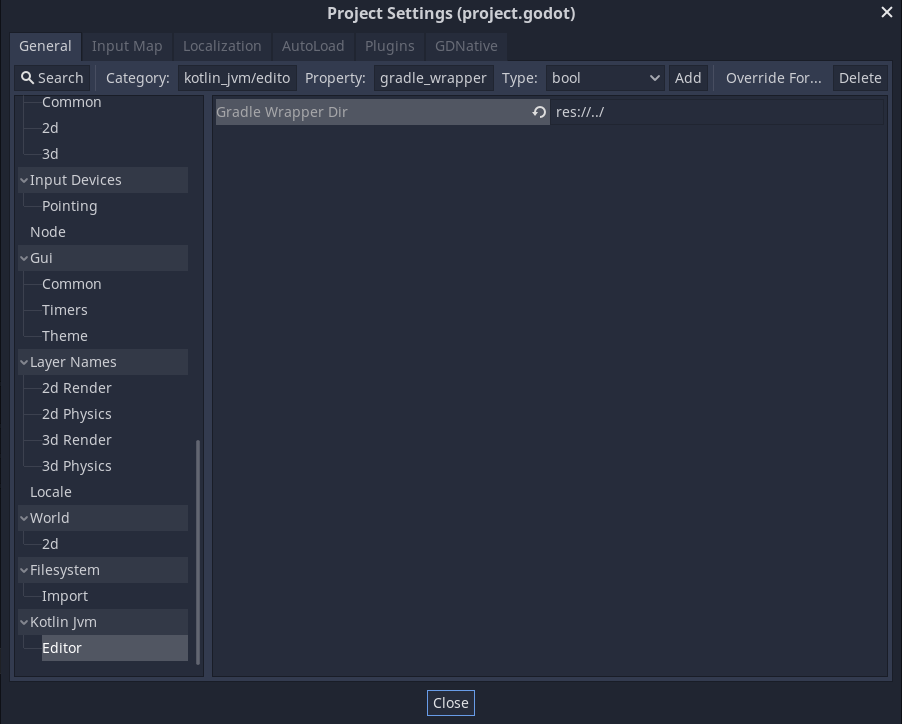
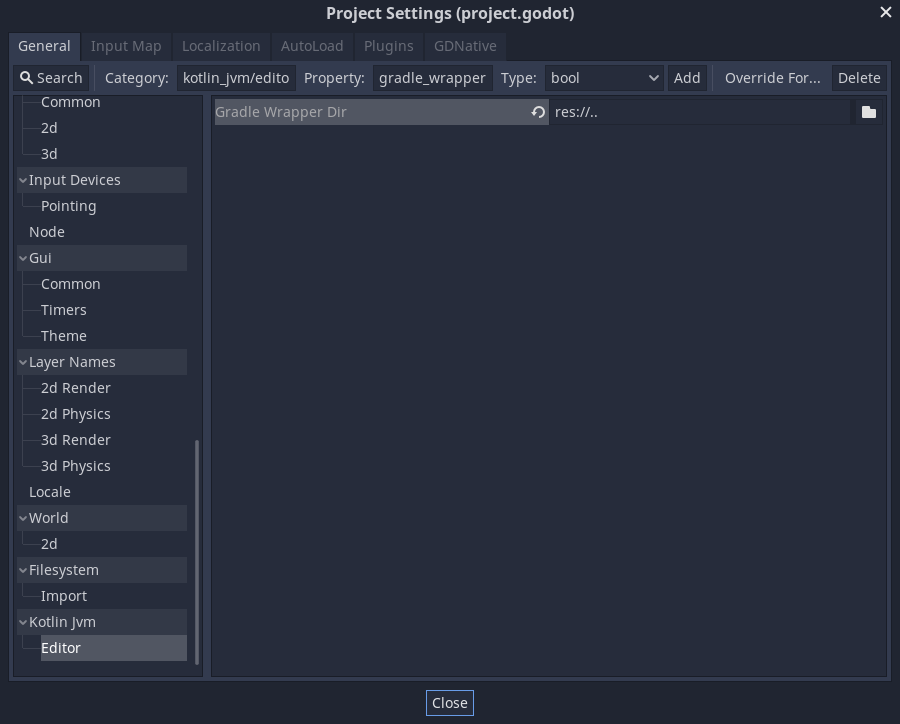
Add possibility to set patch through file dialog

diff --git a/src/editor/build/build_manager.cpp b/src/editor/build/build_manager.cpp
@@ -100,12 +100,16 @@ Error BuildManager::build_blocking() {
 #endif
 
     String gradle_wrapper_path{
-            ProjectSettings::get_singleton()->get_setting("kotlin_jvm/editor/gradle_wrapper_dir")
+            ProjectSettings::get_singleton()->globalize_path(
+                    ProjectSettings::get_singleton()->get_setting("kotlin_jvm/editor/gradle_wrapper_dir")
+            )
     };
 
-    String gradle_command{ProjectSettings::get_singleton()->globalize_path(gradle_wrapper_path) + gradle_wrapper};
+    if (!gradle_wrapper_path.ends_with("/")) {
+        gradle_wrapper_path = String{gradle_wrapper_path + "/"};
+    }
 
-    print_line("gradlew command" + gradle_command);
+    String gradle_command{gradle_wrapper_path + gradle_wrapper};
 
     int exit_code;
     Error result = OS::get_singleton()->execute(

diff --git a/src/editor/godot_kotlin_jvm_editor.cpp b/src/editor/godot_kotlin_jvm_editor.cpp
@@ -69,6 +69,15 @@ void GodotKotlinJvmEditor::_notificationv(int p_notification, bool p_reversed) {
     if (p_notification == NOTIFICATION_READY) {
         _EDITOR_DEF("kotlin_jvm/editor/build_gradle_before_start", true, false);
         _GLOBAL_DEF("kotlin_jvm/editor/gradle_wrapper_dir", "res://", false);
+        ProjectSettings::get_singleton()->set_custom_property_info(
+                "kotlin_jvm/editor/gradle_wrapper_dir",
+                PropertyInfo(
+                        Variant::STRING,
+                        "kotlin_jvm/editor/gradle_wrapper_dir",
+                        PROPERTY_HINT_GLOBAL_DIR,
+                        ""
+                )
+        );
 
         ClassDB::bind_method(
                 D_METHOD("on_menu_option_pressed", "menu_option"),
